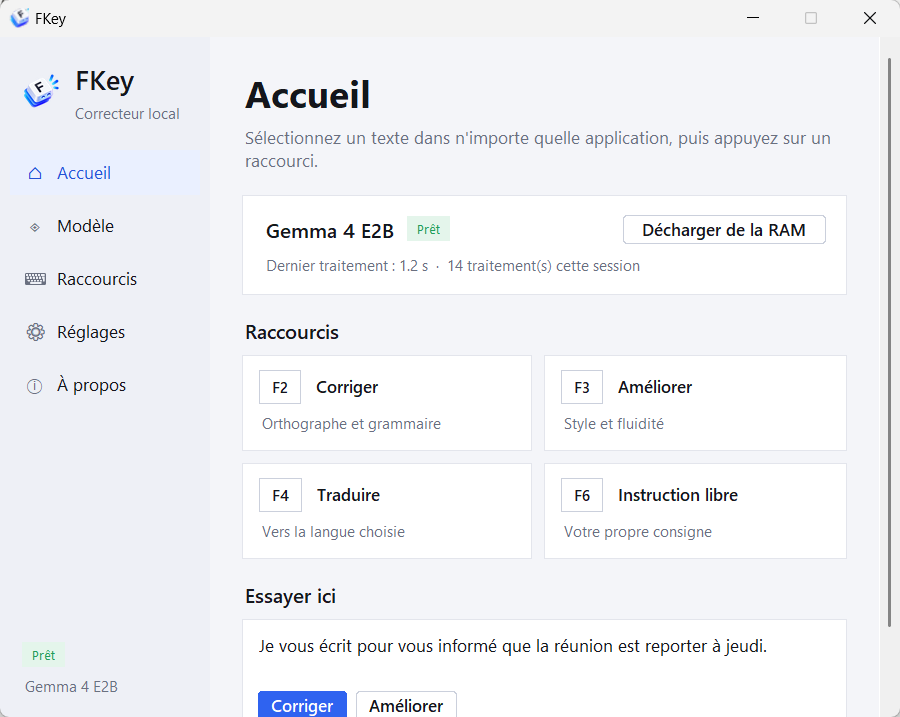
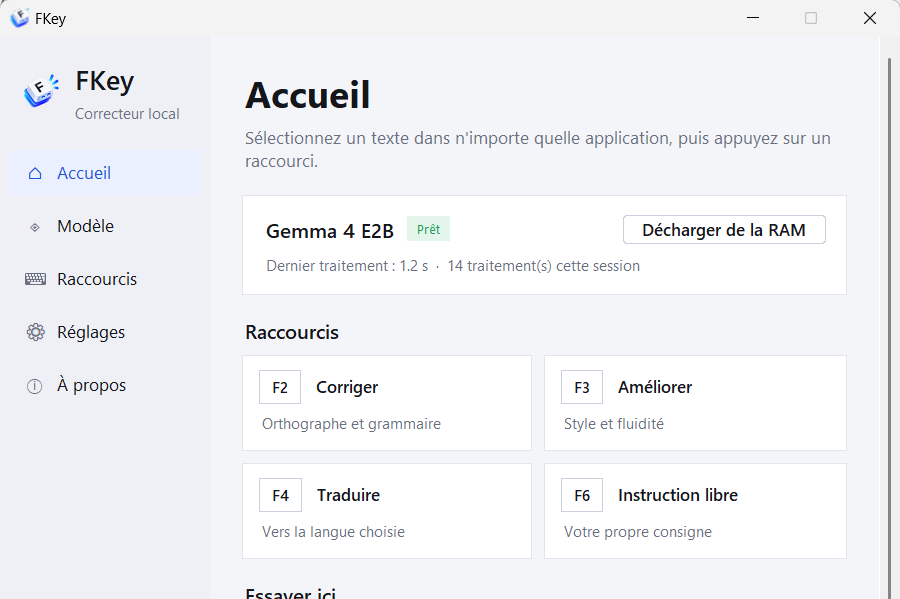
v1.0.1

diff --git a/docs/index.html b/docs/index.html
@@ -161,7 +161,7 @@
   <section id="telecharger">
     <div class="download">
       <div>
-        <h2>Télécharger FKey <span class="badge">v1.0</span></h2>
+        <h2>Télécharger FKey <span class="badge">v1.0.1</span></h2>
         <p>Archive portable : décompressez, lancez, c'est tout.</p>
         <a class="btn btn-primary" href="https://github.com/knulp222/fkey/releases/latest/download/FKey-portable.zip">⬇ &nbsp;FKey-portable.zip <small>37 Mo · Windows 10/11 64 bits</small></a>
         <div class="req"><span>Sans installation</span><span>Sans droits admin</span><span>8 Go de RAM recommandés</span><span>4 Go de disque</span></div>

diff --git a/fkey.py b/fkey.py
@@ -23,7 +23,7 @@ import ui
 from ui import C, F, Label, Button, Card, Badge, Toggle, ProgressBar, KeyCap, OptionCard, NavItem, ScrollFrame
 
 APP_NAME = 'FKey'
-VERSION  = '1.0'
+VERSION  = '1.0.1'
 
 # ─── Chemins ──────────────────────────────────────────────────────────────────
 def _res(r):
